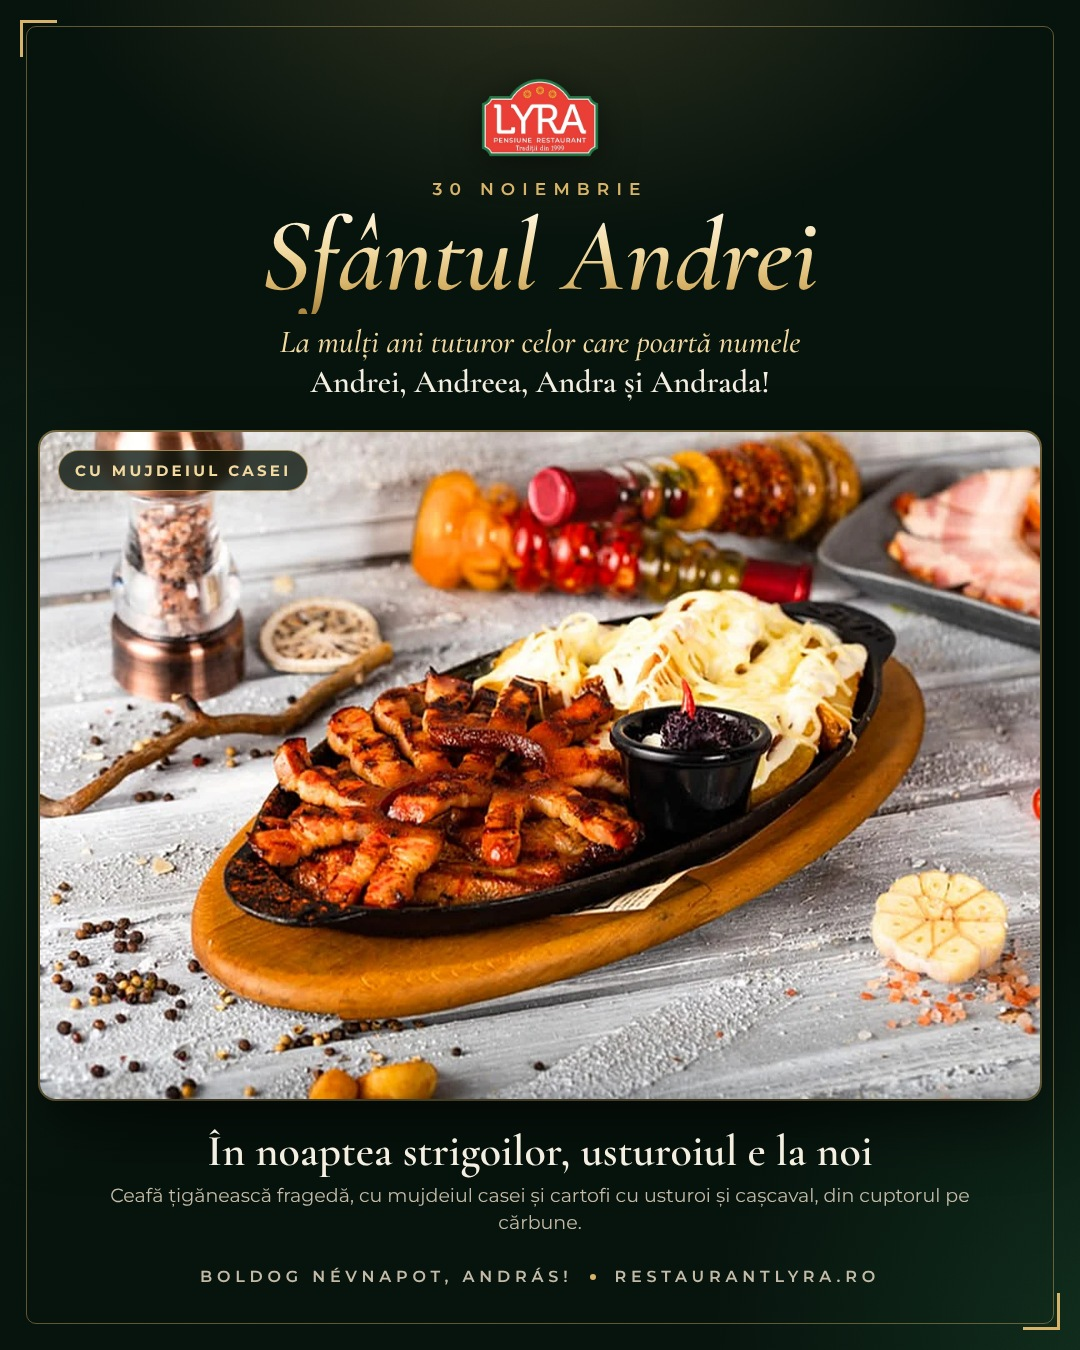
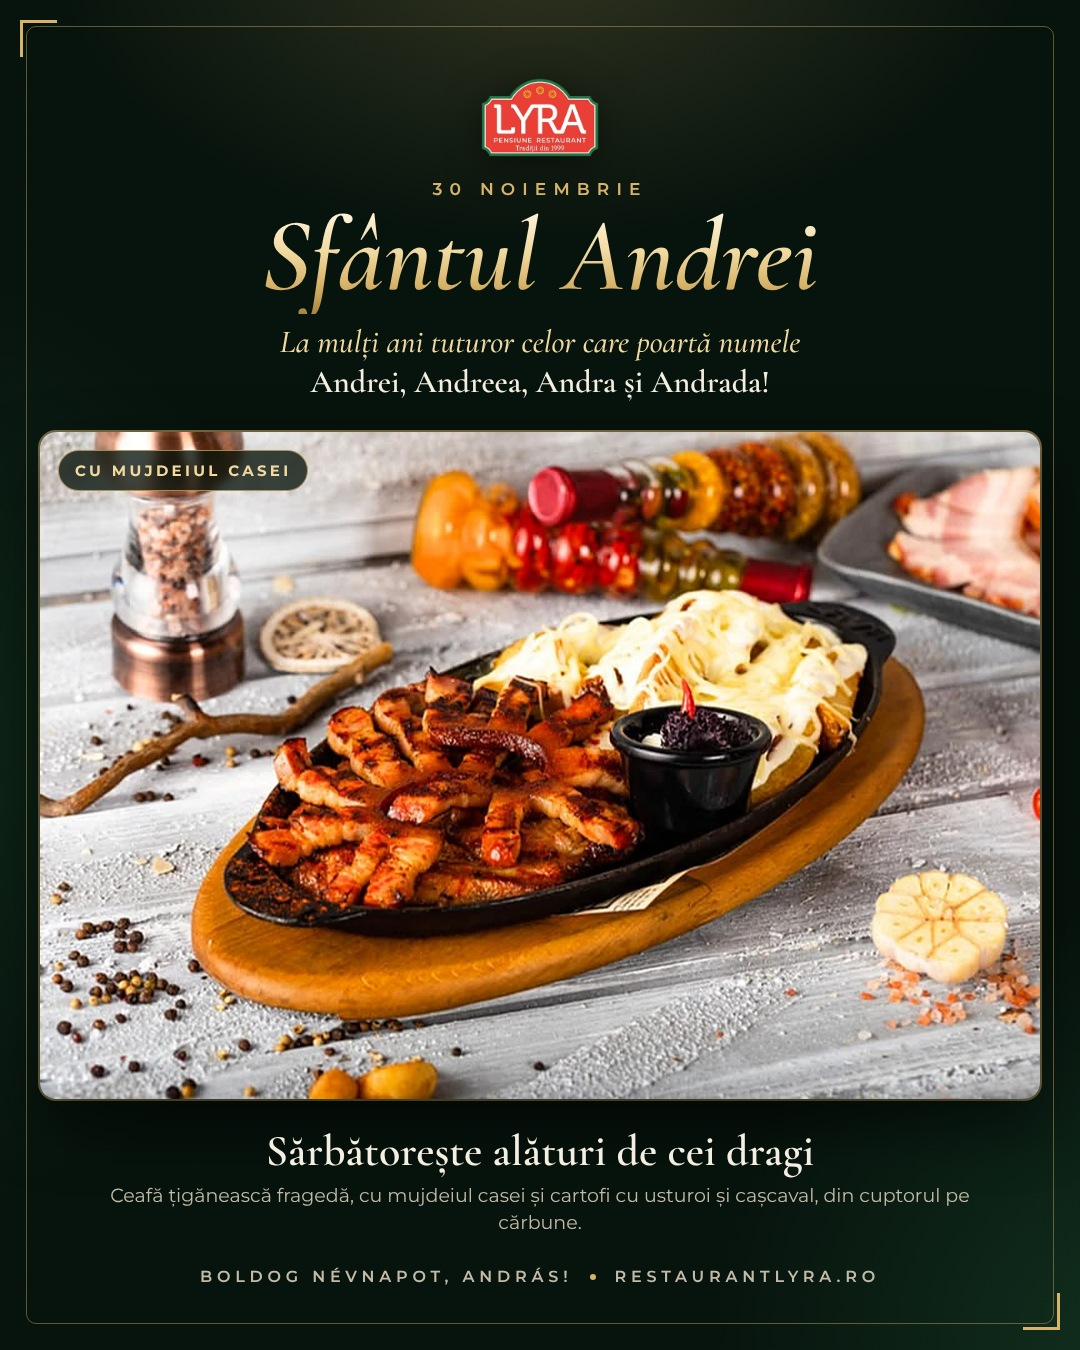
Sfântul Andrei post: drop the strigoi line
Claude-Session: https://claude.ai/code/session_01YWqoAEnZfgrNzbfTc6BtjY

Changed region(s): [[0.1833, 0.84, 0.7944, 0.8711]]

diff --git a/lyra/social/index.html b/lyra/social/index.html
@@ -293,7 +293,7 @@ h1{font-family:var(--serif);font-style:italic;font-weight:600;font-size:104px;li
   <div class="names">La mulți ani tuturor celor care poartă numele<br><b>Andrei, Andreea, Andra și Andrada!</b></div>
   <div class="ph big"><img src="../img/ceafa-tiganeasca.webp"><span class="chip">Cu mujdeiul casei</span></div>
   <div class="dish">
-    <div class="t"><b>În noaptea strigoilor, usturoiul e la noi</b><span>Ceafă țigănească fragedă, cu mujdeiul casei și cartofi cu usturoi și cașcaval, din cuptorul pe cărbune.</span></div>
+    <div class="t"><b>Sărbătorește alături de cei dragi</b><span>Ceafă țigănească fragedă, cu mujdeiul casei și cartofi cu usturoi și cașcaval, din cuptorul pe cărbune.</span></div>
   </div>
   <div class="foot">Boldog névnapot, András!<i></i>restaurantlyra.ro</div>
   <div class="frame"></div>
